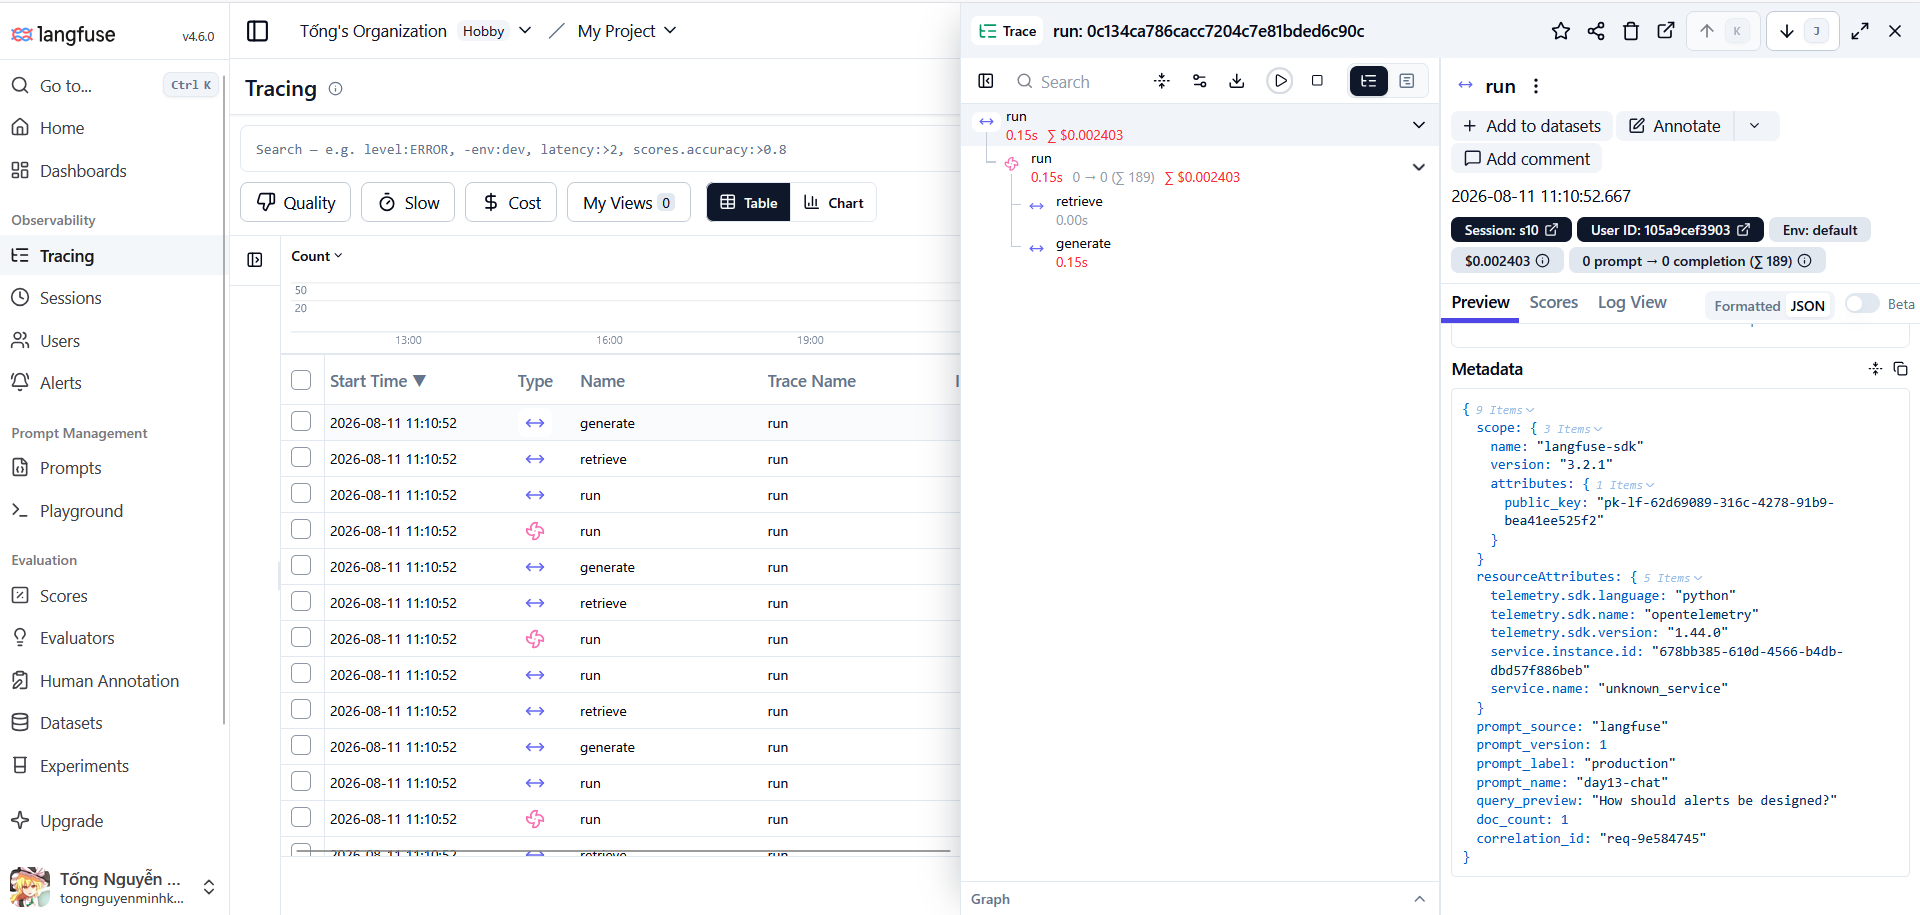
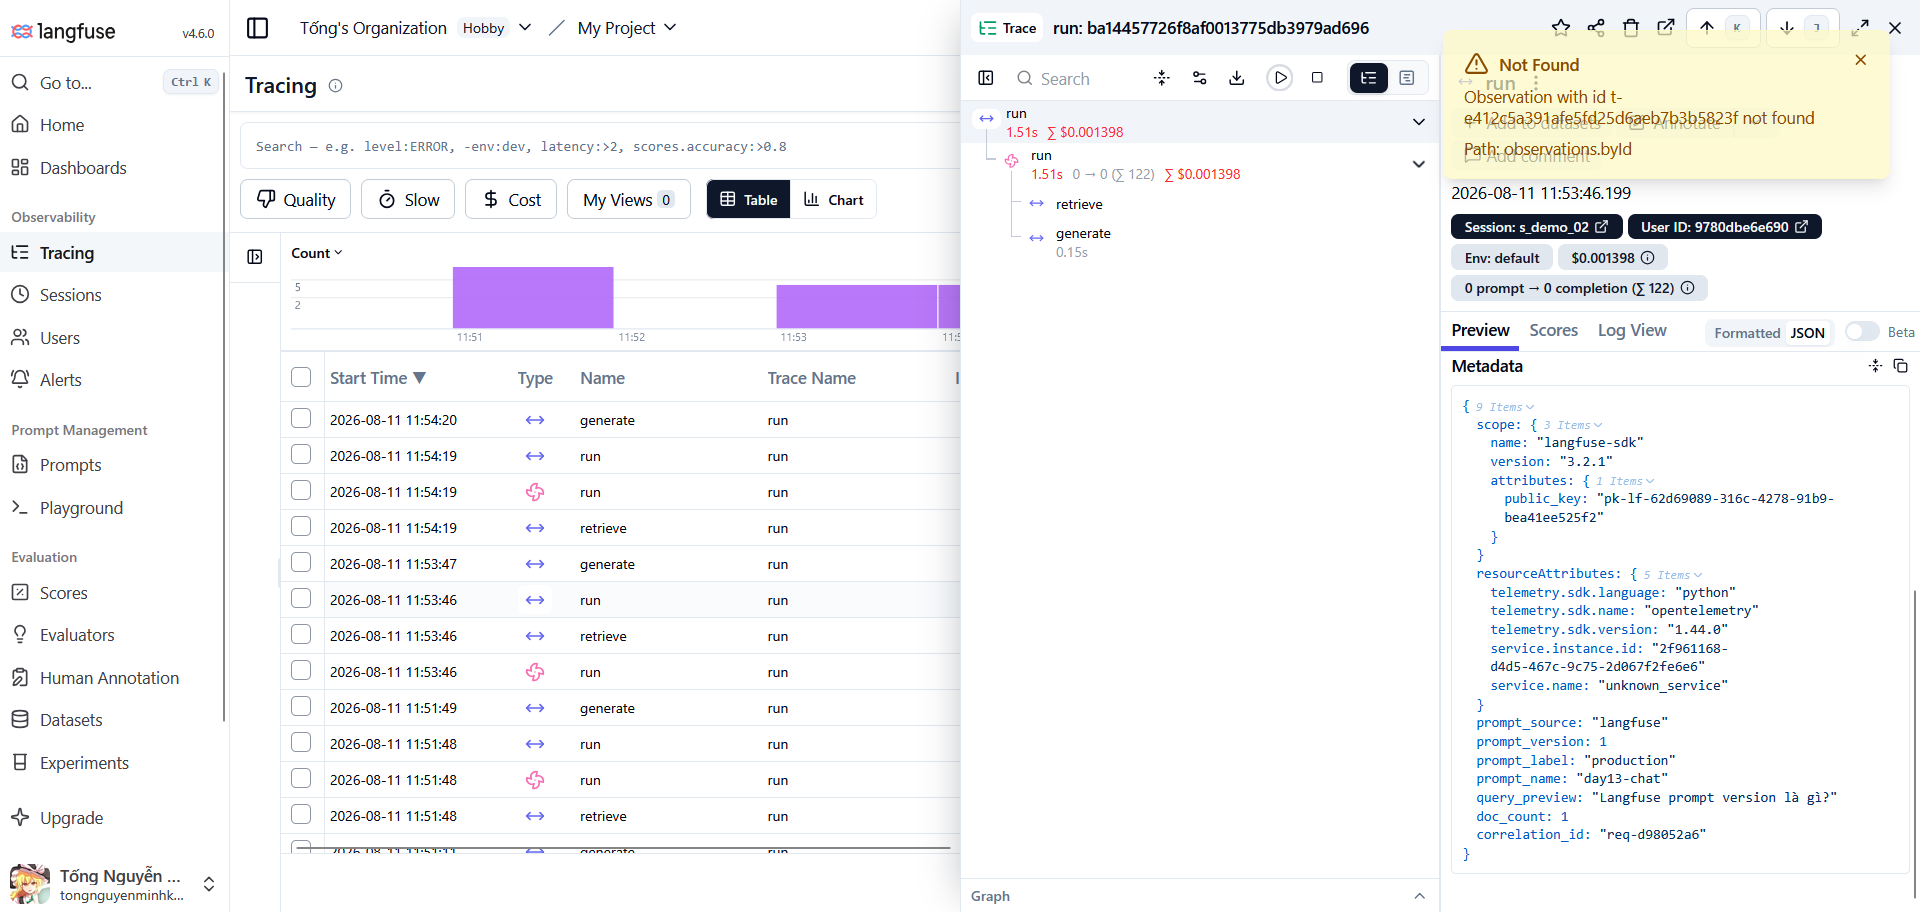
Update prompt versioning CP2

diff --git a/submission/REPORT.md b/submission/REPORT.md
@@ -23,11 +23,11 @@
 
 ## 4. Prompt versioning
 
-- Prompt name:
-- Version/label baseline:
-- Version/label candidate:
-- Trace ID của mỗi version:
-- Bằng chứng đổi label hoặc rollback:
+- Prompt name: Các ảnh `submission/evidence/prompt_list.png` và `submission/evidence/prompt_list2.png` chứa các prompt baseline và candidate.
+- Version/label baseline: version 1, trace trong các ảnh `submission/evidence/baseline.png` và `submission/evidence/baseline2.png`
+- Version/label candidate: version 2, trace trong các ảnh `submission/evidence/candidate.png` và `submission/evidence/candidate2.png`
+- Trace ID của mỗi version: `e412c5a391afe5fd25d6aeb7b3b5823f` cho baseline, `fcaa0d0d30431255a1c0b3c853f16a76` cho candidate.
+- Bằng chứng đổi label hoặc rollback: Các ảnh `submission/evidence/trace_prompt_production.png` và `submission/evidence/trace_prompt_production2.png` là trace của production khi rollback về v1. Các ảnh `submission/evidence/trace_prompt_production_to_v2_1.png` và `submission/evidence/trace_prompt_production_to_v2_2.png` là trace của production prompt khi chuyển sang version 2.
 
 ## 5. Dashboard, SLO và alerts
 
